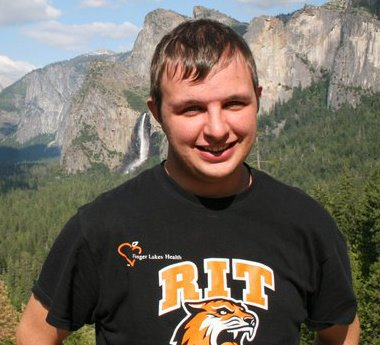
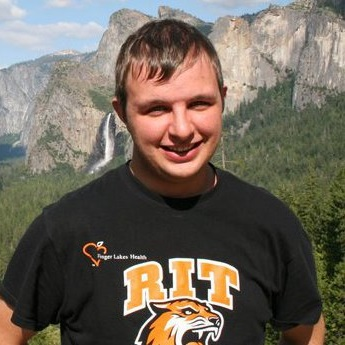
Rounded face

diff --git a/index.html b/index.html
@@ -49,9 +49,7 @@
     </div>
     <div class='row'>
       <div class='three columns'>
-        <div class='pic'>
-          <img src='images/me.jpg' />
-        </div>
+        <img class="face" src='images/me.jpg' />
       </div>
       <div class='nine columns'>
         <h2 class="no-top-border">About Me</h2>

diff --git a/stylesheets/style.css b/stylesheets/style.css
@@ -2,3 +2,7 @@
   margin-top:0px;
   padding-top:0px;
 }
+
+.face{
+  border-radius: 50%;
+}
